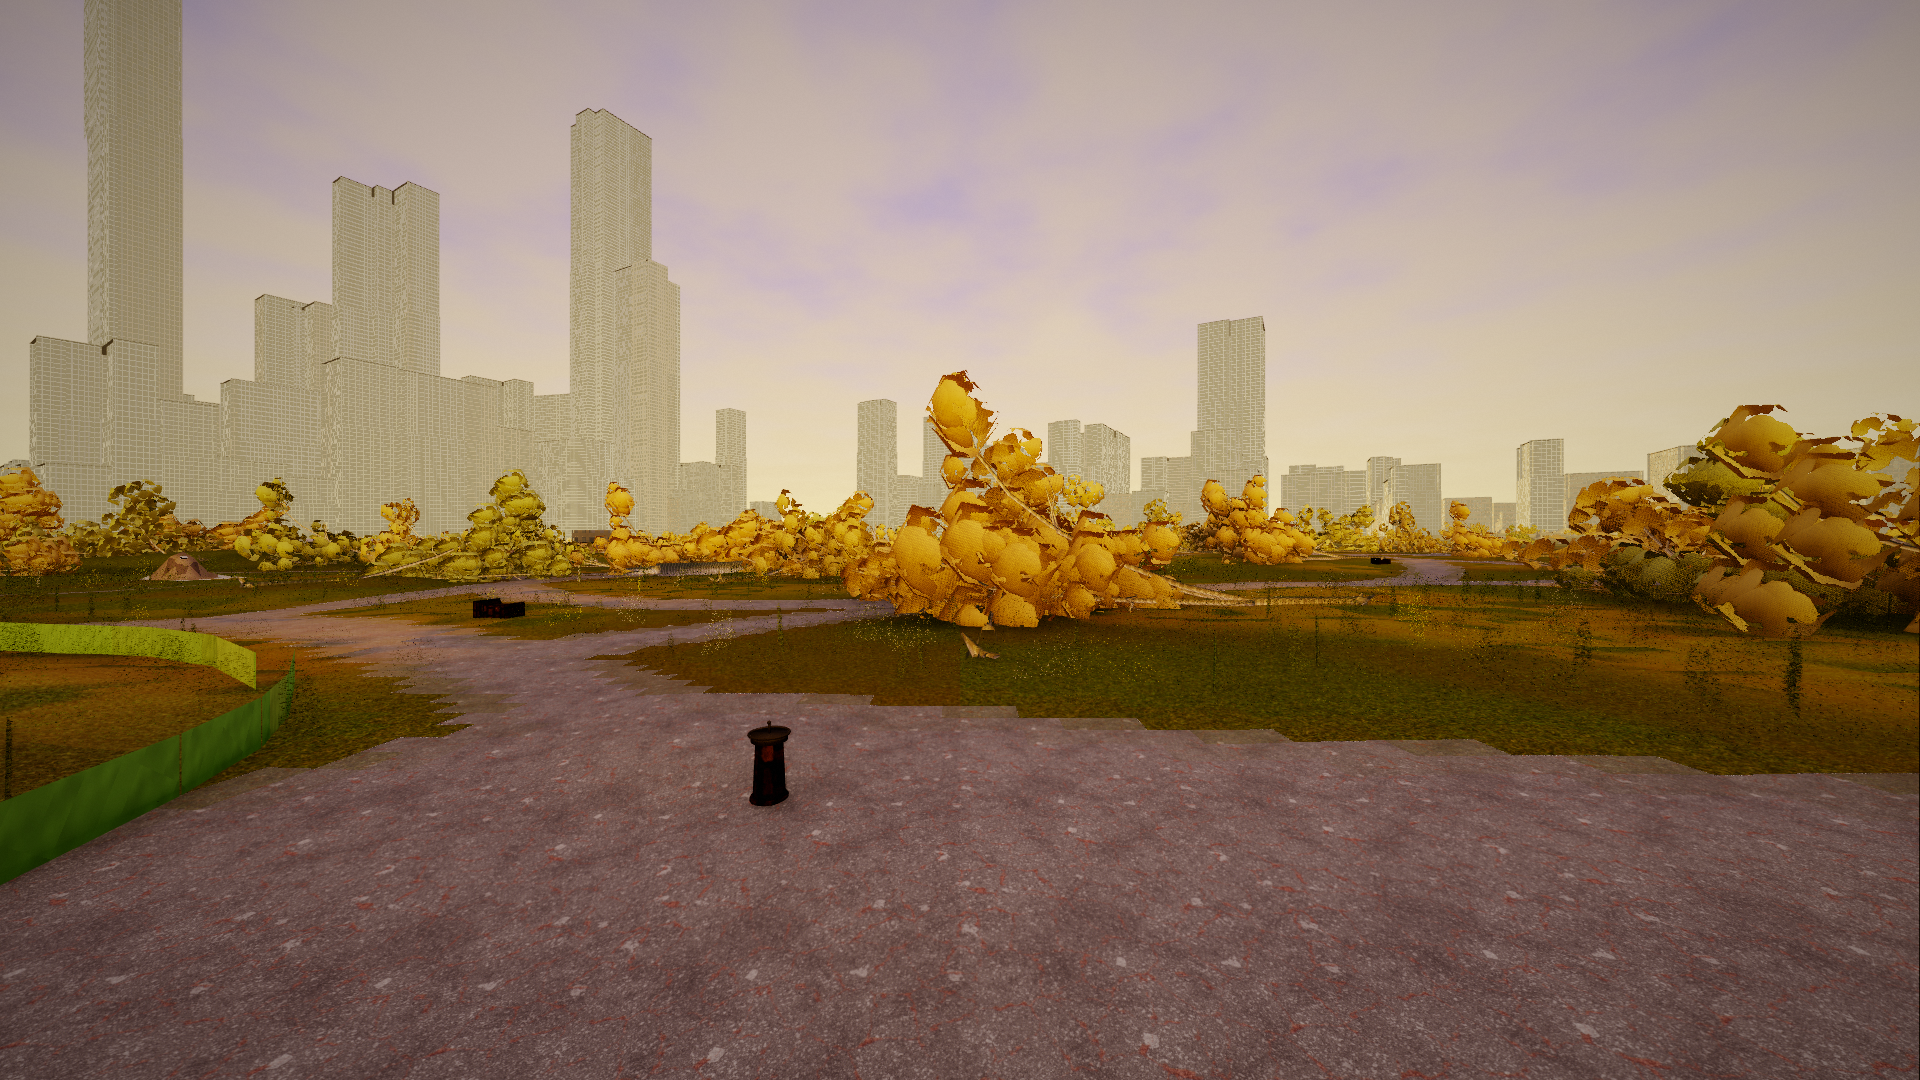
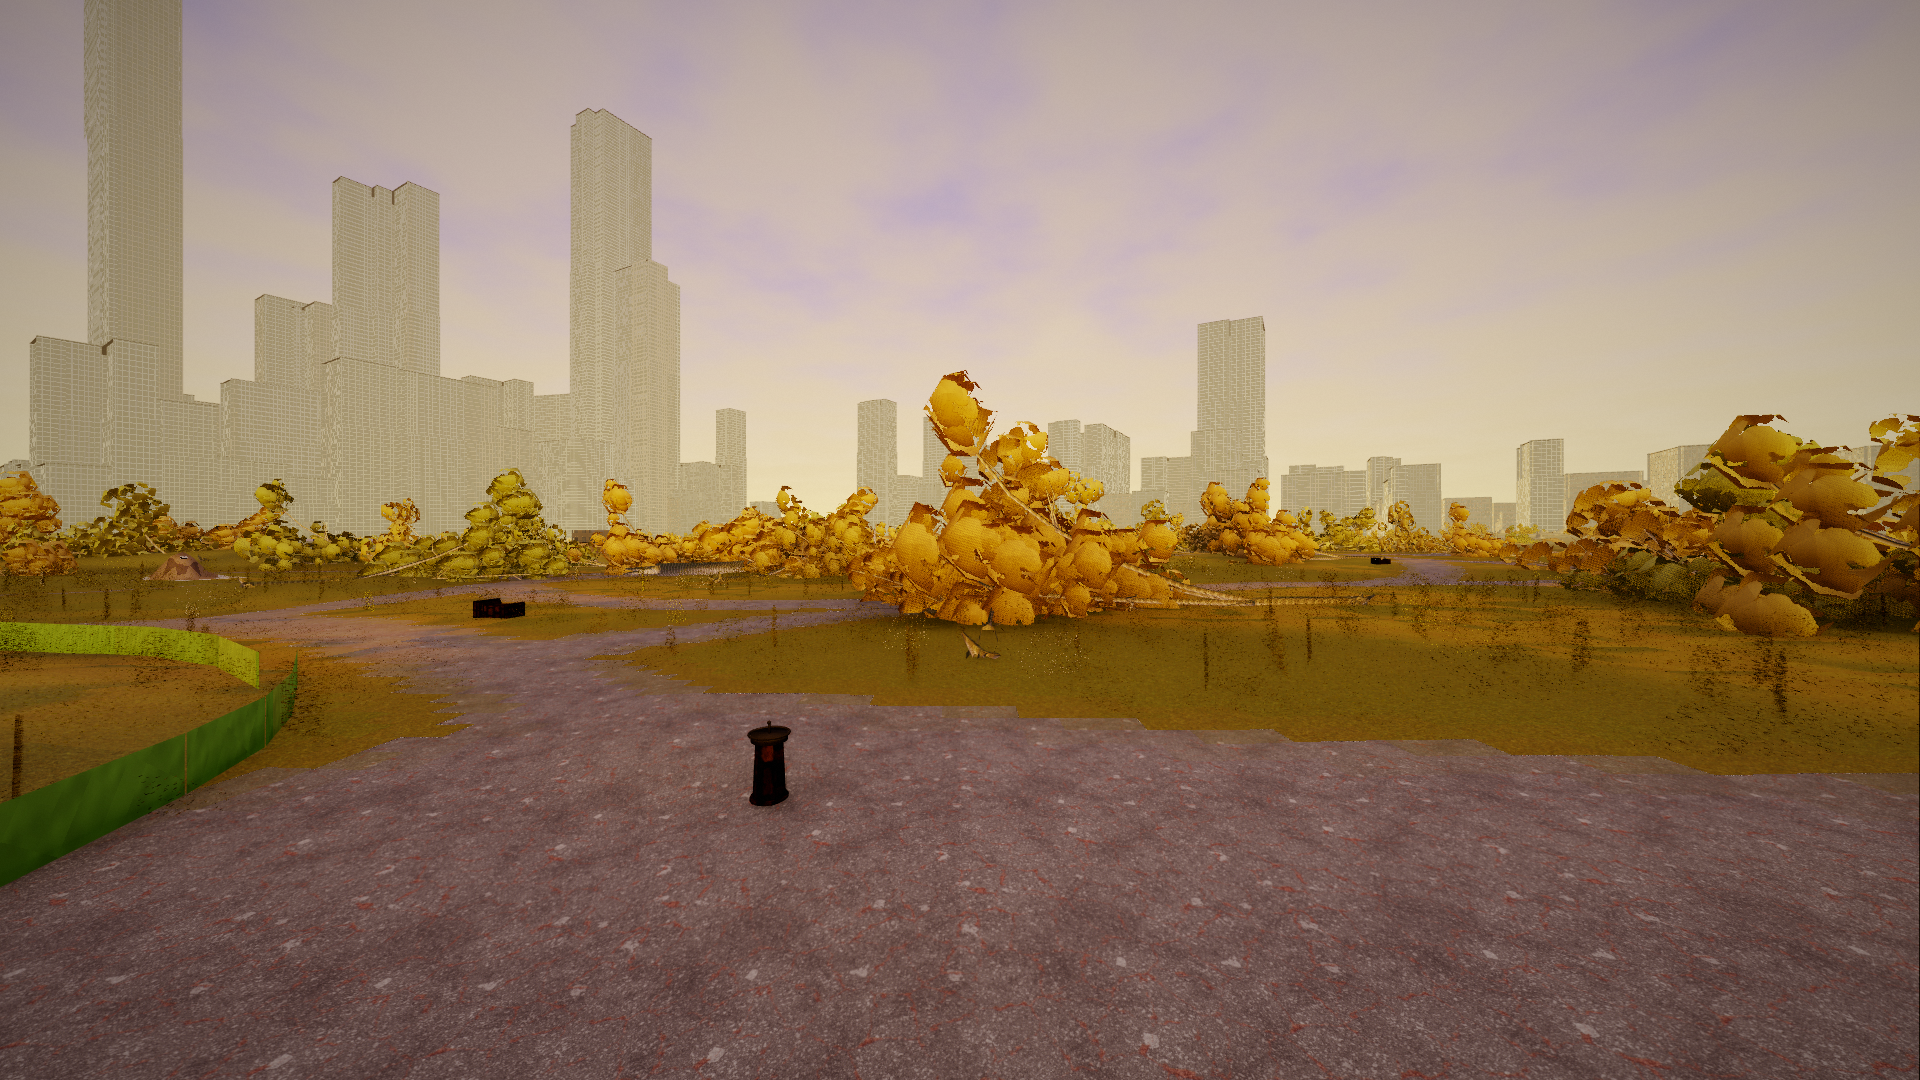
Update README + regenerate screenshots with all session improvements
Screenshots regenerated with:
- Improved atmospheric haze (buildings fade into distance)
- Uniform autumn grass (no blocky squares)
- Soft grass tile edges, Lambertian shading
- Brighter night lamppost pools

README: updated Grass and Day/night feature descriptions

Changed region(s): [[0.0, 0.3667, 1.0, 0.7333]]

diff --git a/README.md b/README.md
@@ -88,10 +88,10 @@ python3 convert_to_godot.py
 | Furniture | 1,022+ | Lampposts (201), benches (610), trash cans (166), fountains (19), flagpoles (18), water towers (45), iron fences (207 segments) |
 | Statues | 106 positions | 4 photogrammetry scans + Cleopatra's Needle model + 61 stone pedestals, rest labeled |
 | Sports fields | 147 | Tennis, basketball, baseball, soccer, handball |
-| Grass | ~762K tiles | 10 CPC-data-driven types with narrow 3D blades (8–15mm), wildflowers, clover. Mowed=1-segment spikes, woodland=2-segment curves, meadow=3-segment arches. Mowing stripes on formal lawns, path-edge wear (shorter/browner near paths), multi-scale color variation (5 scales from field-level drainage to per-clump species mix), dandelion + clover weeds in maintained lawns, winter dormancy |
+| Grass | ~762K tiles | 10 CPC-data-driven types with narrow 3D blades (8–15mm), wildflowers, clover. Mowed=1-segment spikes, woodland=2-segment curves, meadow=3-segment arches. Mowing stripes on formal lawns, path-edge wear (shorter/browner near paths), multi-scale color variation (5 scales from field-level drainage to per-clump species mix), dandelion + clover weeds in maintained lawns, winter dormancy. Soft tile-edge fade (dithered alpha), Lambertian shading (no specular), distance darkening |
 | Seasons | 4 | Per-species phenology, cherry/callery pear/magnolia spring blossoms, spring cherry blossom petal drift, autumn falling leaf particles, leaf scatter, water color, atmosphere |
 | Weather | 5 modes | Rain, thunderstorm, snow, fog, clear — with surface response |
-| Day/night | Full cycle | 48-lamp pool, lit windows, NYC warm ambient light pollution, moon, atmospheric haze |
+| Day/night | Full cycle | 48-lamp pool (45m range, 110 energy), lit windows, NYC warm ambient light pollution, moon, atmospheric haze, aerial perspective (distance desaturation + blue shift) |
 | Color grading | Cinematic | Split-tone (teal shadows/amber highlights), film grain, vignette, seasonal + TOD color shifts, S-curve contrast, distance-based grass darkening |
 
 ## Data Sources
